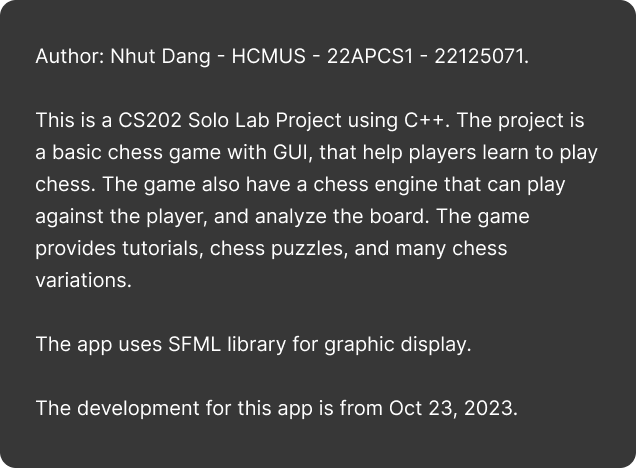
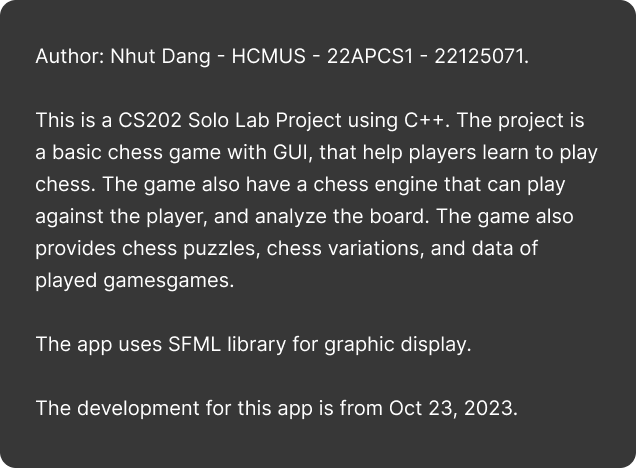
update README.md

Changed region(s): [[0.0597, 0.5085, 0.8664, 0.6282], [0.8365, 0.4487, 0.8962, 0.4786]]

diff --git a/README.md b/README.md
@@ -1,103 +1,62 @@
-# CMake SFML Project Template
+# Chess & Chill - CS202 OOP Project
 
-This repository template should allow for a fast and hassle-free kick start of your next SFML project using CMake.
-Thanks to [GitHub's nature of templates](https://docs.github.com/en/repositories/creating-and-managing-repositories/creating-a-repository-from-a-template), you can fork this repository without inheriting its Git history.
+## 1. Project Description
+Author: Nhut Dang - HCMUS - 22APCS1 - 22125071.
 
-The template starts out very basic, but might receive additional features over time:
+This is a CS202 Solo Lab Project using C++. The project is a basic chess game with GUI, that help players learn to play chess. The game also have a chess engine that can play against the player, and analyze the board. The game also provides chess puzzles, chess variations, and data of played games.
 
-- Basic CMake script to build your project and link SFML on any operating system
-- Basic [GitHub Actions](https://github.com/features/actions) script for all major platforms
+## 2. Features
+- [x] Basic chess game with GUI.
+- [x] **3** game modes: Player vs Player, Player vs Computer, Computer vs Computer.
+- [x] Multiple time limit options: 1 min, 3 mins, 5 mins, 10 mins, 15 mins, 30 mins,...
+- [x] Chess engine that can play against the player, and analyze the board.
+- [x] **100** chess puzzles (read from .csv file)
+- [x] **2** chess variations.
+  - [Chess960](https://vi.wikipedia.org/wiki/Chess960).
+  - [King of the Hill](https://www.chess.com/terms/king-of-the-hill).
+- [x] Save & load old games for reviewing (using binary file).
+- [x] Customizable game settings.
+   - [x] **9** board themes
+   - [x] **8** piece sets themes
+   - [x] Sound on/off
 
-## How to Use
+## 3. Screenshots & Demo
+- Youtube demo [here]().
+- Screenshots:
+  - Main menu:
 
-1. Follow the above instructions about how to use GitHub's project template feature to create your own project.
-1. Open [CMakeLists.txt](CMakeLists.txt). Rename the project and the executable to whatever name you want. The project and executable names don't have to match.
-1. If you want to add or remove any .cpp files, change the source files listed in the [`add_executable`](CMakeLists.txt#L10) call in CMakeLists.txt to match the source files your project requires. If you plan on keeping the default main.cpp file then no changes are required.
-1. If you use Linux, install SFML's dependencies using your system package manager. On Ubuntu and other Debian-based distributions you can use the following commands:
-    ```
-    sudo apt update
-    sudo apt install \
-        libxrandr-dev \
-        libxcursor-dev \
-        libudev-dev \
-        libfreetype-dev \
-        libopenal-dev \
-        libflac-dev \
-        libvorbis-dev \
-        libgl1-mesa-dev \
-        libegl1-mesa-dev
-    ```
-1. Configure and build your project. Most popular IDEs support CMake projects with very little effort on your part.
-    - [VS Code](https://code.visualstudio.com) via the [CMake extension](https://code.visualstudio.com/docs/cpp/cmake-linux)
-    - [Visual Studio](https://docs.microsoft.com/en-us/cpp/build/cmake-projects-in-visual-studio?view=msvc-170)
-    - [CLion](https://www.jetbrains.com/clion/features/cmake-support.html)
-    - [Qt Creator](https://doc.qt.io/qtcreator/creator-project-cmake.html)
+    ![Main menu](demo1.png)
+  - Game:
+    
+  - ![Game](demo2.png)
+  - Game settings:
+    
+  - ![Game settings](demo3.png)
+  - Puzzle:
+    
+  - ![Puzzle](demo4.png)
+  - Variation:
+    
+  - ![Variation](demo5.png)
+  - Old games data:
+    
+  - ![Game data](demo6.png)
 
-    Using CMake from the command line is straightforward as well.
+## 4. How to run 
+### 4.1. Build from source
+- Clone the repository.
+- Open the project in Visual Studio (or any IDE).
+- Build the project.
+- Run the executable file.
 
-    For a single-configuration generator (typically the case on Linux and macOS):
-    ```
-    cmake -S . -B build -DCMAKE_BUILD_TYPE=Release
-    cmake --build build
-    ```
+### 4.2. Run the executable file (Windows only)
+- Download the `ChessChill_vx.x.zip` file from a release [here](https://github.com/BJMinhNhut/Chess/releases).
+- Extract the zip file.
+- Run the `Chess-Chill.exe` file.
 
-    For a multi-configuration generator (typically the case on Windows):
-    ```
-    cmake -S . -B build
-    cmake --build build --config Release
-    ```
-1. Enjoy!
-
-## Upgrading SFML
-
-SFML is found via CMake's [FetchContent](https://cmake.org/cmake/help/latest/module/FetchContent.html) module.
-FetchContent automatically downloads SFML from GitHub and builds it alongside your own code.
-Beyond the convenience of not having to install SFML yourself, this ensures ABI compatability and simplifies things like specifying static versus shared libraries.
-
-Modifying what version of SFML you want is as easy as changing the [`GIT_TAG`](CMakeLists.txt#L7) argument.
-Currently it uses the latest in-development version of SFML 2 via the `2.6.x` tag.
-If you're feeling adventurous and want to give SFML 3 a try, use the `master` tag.
-Beware, this requires changing your code to suit the modified API!
-The nice folks in the [SFML community](https://github.com/SFML/SFML#community) can help you with that transition and the bugs you may encounter along the way.
-
-## But I want to...
-
-Modify CMake options by adding them as configuration parameters (with a `-D` flag) or by modifying the contents of CMakeCache.txt and rebuilding.
-
-### Use Static Libraries
-
-By default SFML builds shared libraries and this default is inherited by your project.
-CMake's [`BUILD_SHARED_LIBS`](https://cmake.org/cmake/help/latest/variable/BUILD_SHARED_LIBS.html) option lets you pick static or shared libraries for the entire project.
-
-### Change Compilers
-
-See the variety of [`CMAKE_<LANG>_COMPILER`](https://cmake.org/cmake/help/latest/variable/CMAKE_LANG_COMPILER.html) options.
-In particular you'll want to modify `CMAKE_CXX_COMPILER` to point to the C++ compiler you wish to use.
-
-### Change Compiler Optimizations
-
-CMake abstracts away specific optimizer flags through the [`CMAKE_BUILD_TYPE`](https://cmake.org/cmake/help/latest/variable/CMAKE_BUILD_TYPE.html) option.
-By default this project recommends `Release` builds which enable optimizations.
-Other build types include `Debug` builds which enable debug symbols but disable optimizations.
-If you're using a multi-configuration generator (as is often the case on Windows), you can modify the [`CMAKE_CONFIGURATION_TYPES`](https://cmake.org/cmake/help/latest/variable/CMAKE_CONFIGURATION_TYPES.html#variable:CMAKE_CONFIGURATION_TYPES) option.
-
-### Change Generators
-
-While CMake will attempt to pick a suitable default generator, some systems offer a number of generators to choose from.
-Ubuntu, for example, offers Makefiles and Ninja as two potential options.
-For a list of generators, click [here](https://cmake.org/cmake/help/latest/manual/cmake-generators.7.html).
-To modify the generator you're using you must reconfigure your project providing a `-G` flag with a value corresponding to the generator you want.
-You can't simply modify an entry in the CMakeCache.txt file unlike the above options.
-Then you may rebuild your project with this new generator.
-
-## More Reading
-
-Here are some useful resources if you want to learn more about CMake:
-
-- [How to Use CMake Without the Agonizing Pain - Part 1](https://alexreinking.com/blog/how-to-use-cmake-without-the-agonizing-pain-part-1.html)
-- [How to Use CMake Without the Agonizing Pain - Part 2](https://alexreinking.com/blog/how-to-use-cmake-without-the-agonizing-pain-part-2.html)
-- [Better CMake YouTube series by Jefferon Amstutz](https://www.youtube.com/playlist?list=PL8i3OhJb4FNV10aIZ8oF0AA46HgA2ed8g)
-
-## License
-
-The source code is dual licensed under Public Domain and MIT -- choose whichever you prefer.
+## 5. References
+- [Chess Programming Wiki](https://www.chessprogramming.org/Main_Page)
+- [Ameye's blog](https://ameye.dev/notes/chess-engine/)
+- [Lichess puzzle database](https://www.kaggle.com/datasets/reinism/lichess-database-puzzles)
+- [Lichess themes](https://github.com/lichess-org/lila/tree/master/public)
+- [Chess.com sound effects](https://www.chess.com/forum/view/general/chessboard-sound-files)
